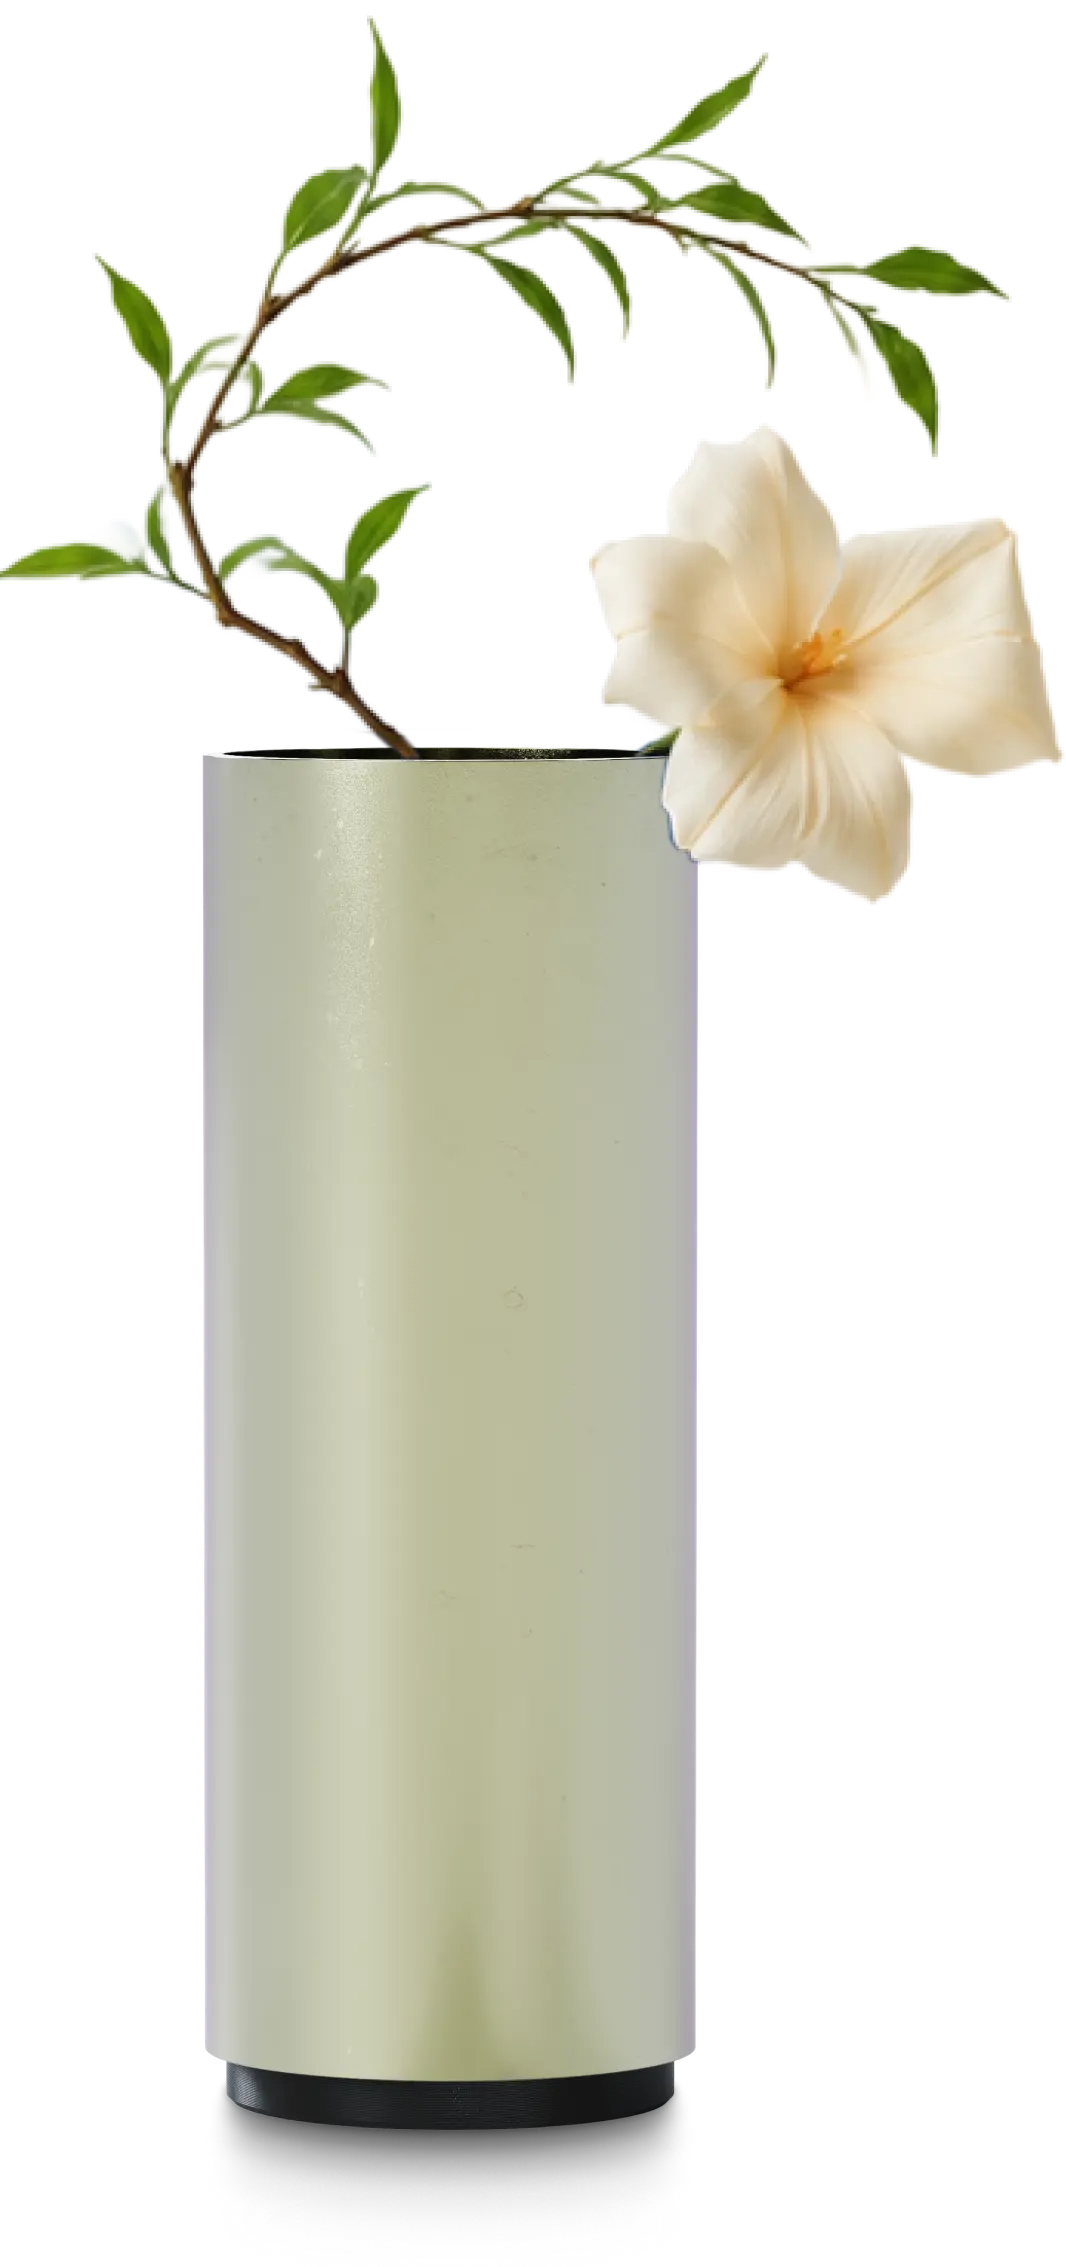
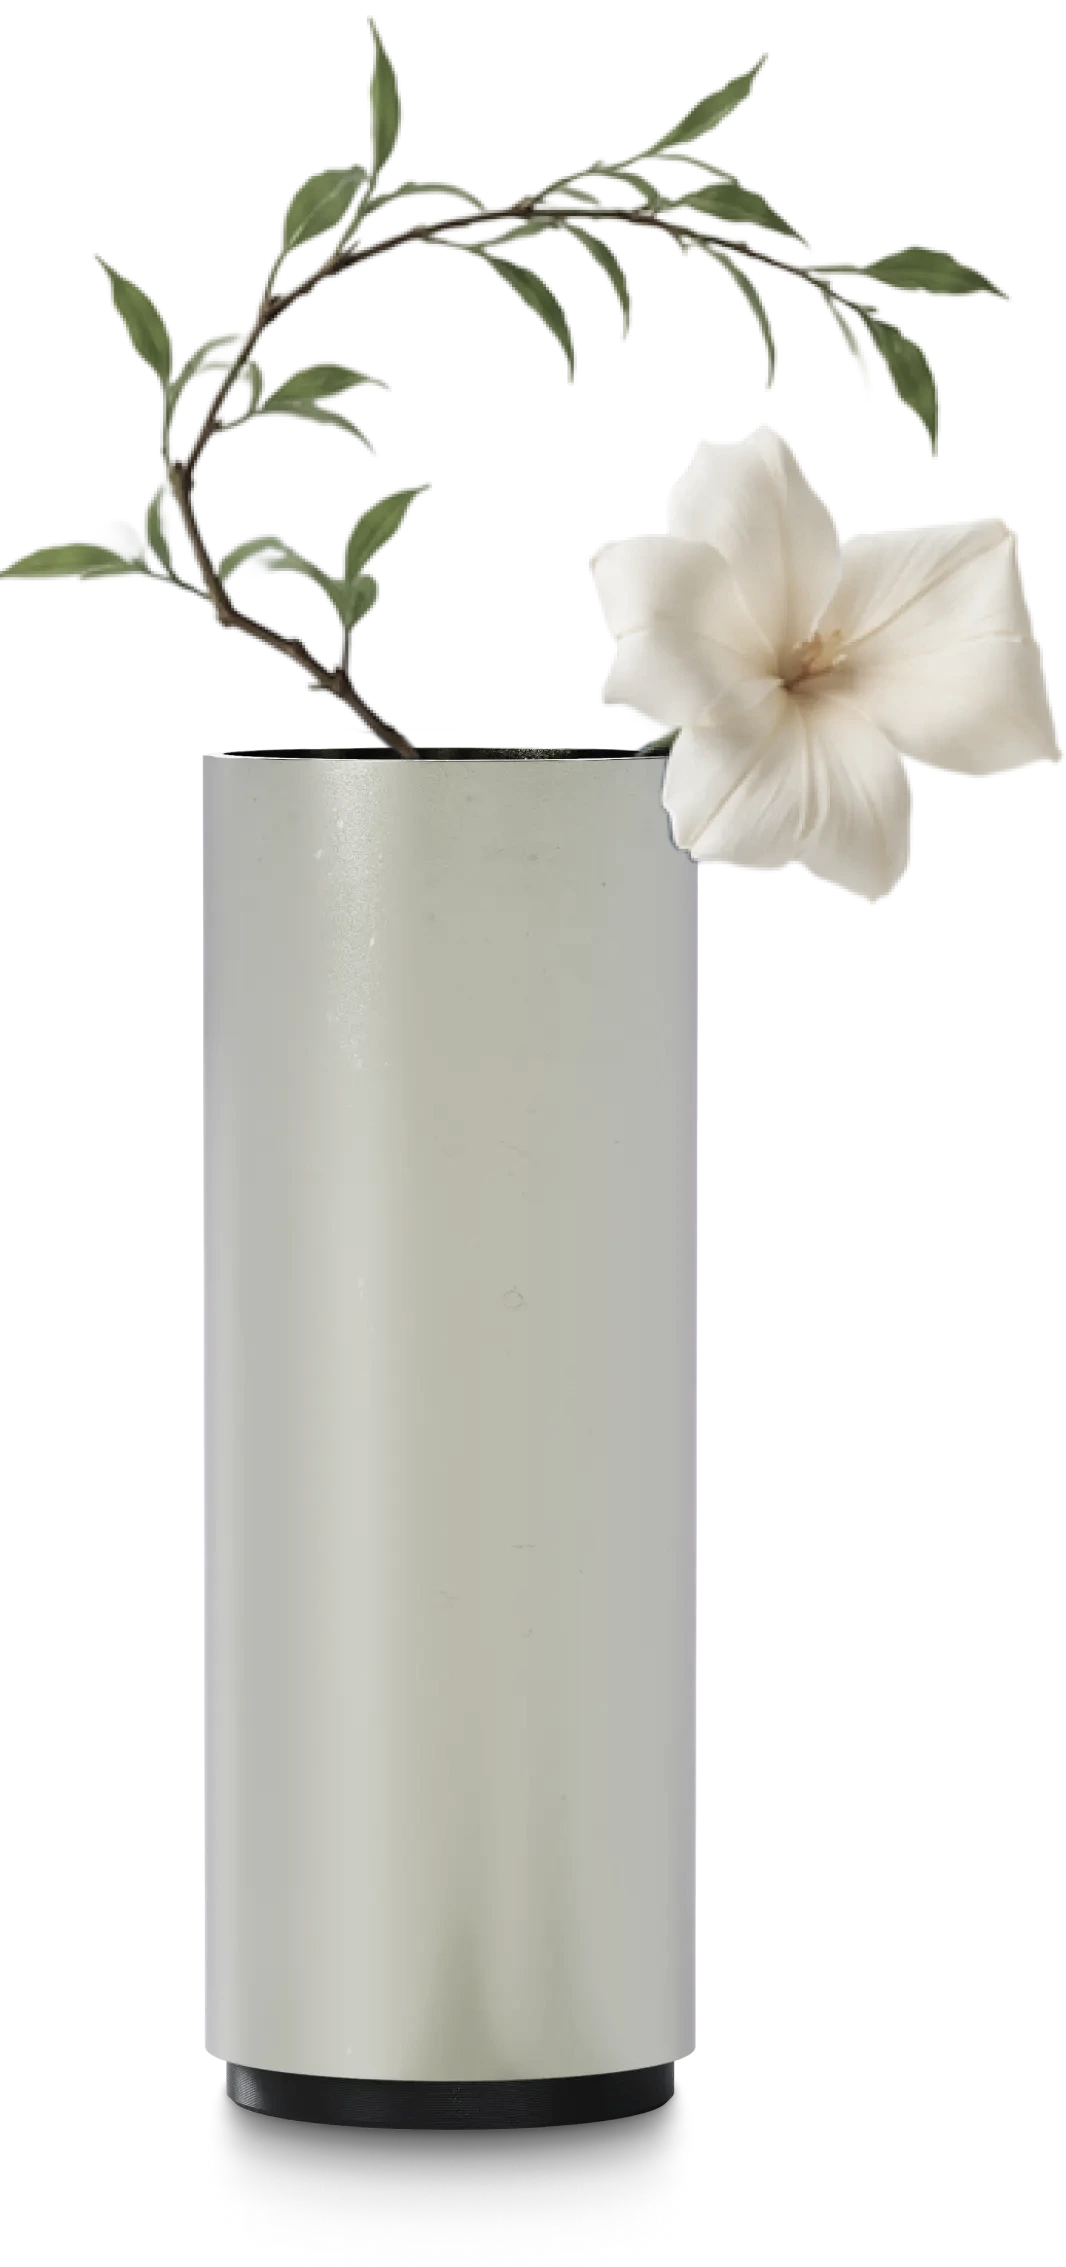
Sky Vase: bake desaturation into gradient images (not hover)
Match the muted target look by baking saturate(0.4) into the gradient
layers vase_1..6 (alpha preserved); leave vase_hover at full saturation.
Remove the runtime saturate filter from the homepage object.

diff --git a/src/components/projects/sky-vase.tsx b/src/components/projects/sky-vase.tsx
@@ -51,7 +51,7 @@ export function SkyVase({ name, year }: { name: string; year: string }) {
           layer below (= the rectangle) triggers hover. isolate keeps the date's
           screen blend mixing with the vase only. */}
       <div
-        className="pointer-events-none absolute top-0 h-full aspect-[1066/2267] isolate saturate-[.85]"
+        className="pointer-events-none absolute top-0 h-full aspect-[1066/2267] isolate"
         style={{ left: `${(-134 / 637) * 100}%` }}
       >
         {/* Gradient stack — fades out on hover. */}
